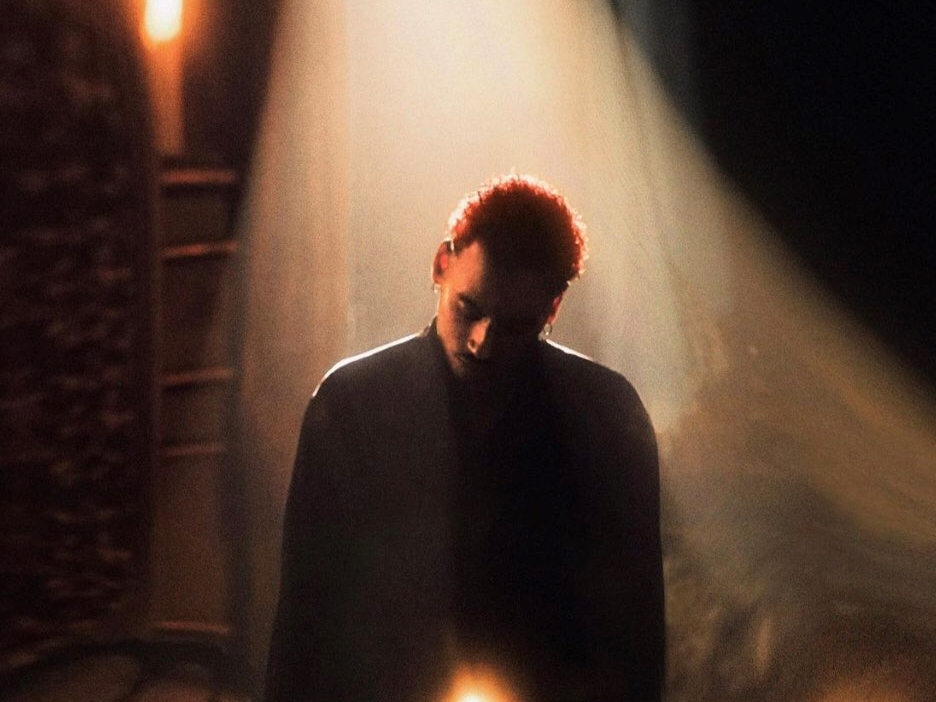
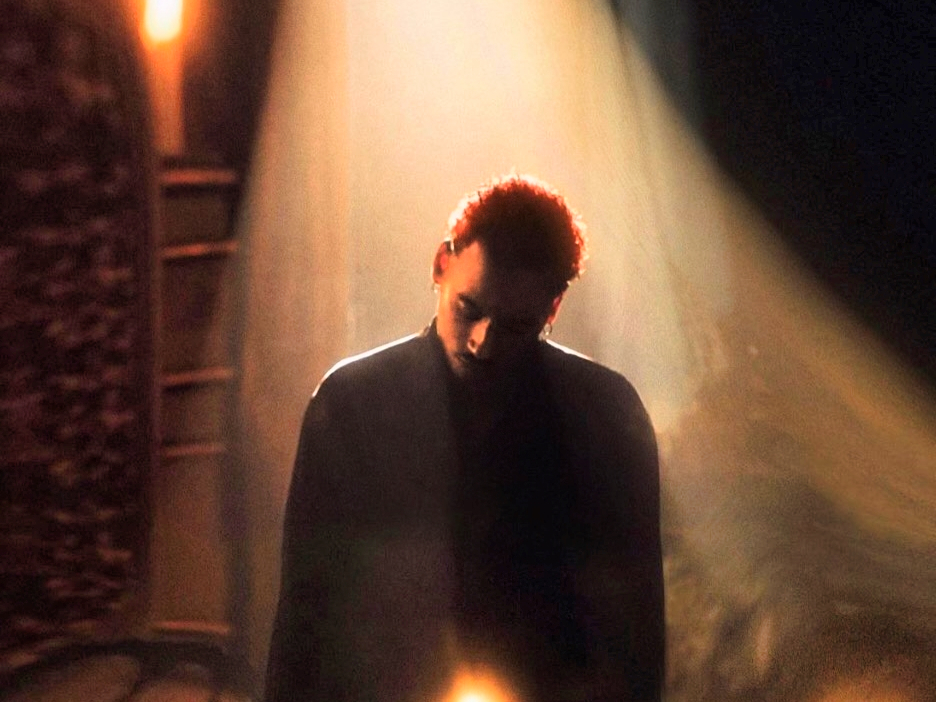
feat(accueil) update img

diff --git a/components/Map.js b/components/Map.js
@@ -62,19 +62,30 @@ export default function Map() {
 
   return (
     <View>
-      <MapView region={region} style={Styles.map} provider={PROVIDER_GOOGLE}>
+      <MapView
+        region={region}
+        style={Styles.map}
+        customMapStyle={MapStyle}
+        provider={PROVIDER_GOOGLE}
+      >
+        <MapView.Marker
+          image={require("../assets/img/icons/current.png")}
+          coordinate={{
+            latitude: region.latitude,
+            longitude: region.longitude,
+          }}
+        />
         {data.map((concert) => {
           let latitude = parseFloat(concert.coordonnees.split(",")[0], 6);
           let longitude = parseFloat(concert.coordonnees.split(",")[1]);
           return (
             <MapView.Marker
+              image={require("../assets/img/icons/marker.png")}
               coordinate={{
                 latitude: latitude,
                 longitude: longitude,
               }}
               key={concert.id}
-              title={concert.festival}
-              description={concert.ville}
               onPress={() => {
                 navigation.push("Concert", { id: concert.id });
               }}
@@ -92,3 +103,229 @@ const Styles = StyleSheet.create({
     height: Dimensions.get("window").height,
   },
 });
+
+const MapStyle = [
+  {
+    elementType: "geometry",
+    stylers: [
+      {
+        color: "#0d0d1c",
+      },
+    ],
+  },
+  {
+    elementType: "labels.icon",
+    stylers: [
+      {
+        visibility: "off",
+      },
+    ],
+  },
+  {
+    elementType: "labels.text.fill",
+    stylers: [
+      {
+        color: "#757575",
+      },
+    ],
+  },
+  {
+    elementType: "labels.text.stroke",
+    stylers: [
+      {
+        color: "#212121",
+      },
+    ],
+  },
+  {
+    featureType: "administrative",
+    elementType: "geometry",
+    stylers: [
+      {
+        color: "#757575",
+      },
+    ],
+  },
+  {
+    featureType: "administrative.country",
+    elementType: "labels.text.fill",
+    stylers: [
+      {
+        color: "#9e9e9e",
+      },
+    ],
+  },
+  {
+    featureType: "administrative.land_parcel",
+    stylers: [
+      {
+        visibility: "off",
+      },
+    ],
+  },
+  {
+    featureType: "administrative.locality",
+    elementType: "labels.text.fill",
+    stylers: [
+      {
+        color: "#bdbdbd",
+      },
+    ],
+  },
+  {
+    featureType: "poi",
+    elementType: "labels.text.fill",
+    stylers: [
+      {
+        color: "#757575",
+      },
+    ],
+  },
+  {
+    featureType: "poi.park",
+    elementType: "geometry",
+    stylers: [
+      {
+        color: "#181818",
+      },
+      {
+        visibility: "off",
+      },
+    ],
+  },
+  {
+    featureType: "poi.park",
+    elementType: "labels.text",
+    stylers: [
+      {
+        visibility: "off",
+      },
+    ],
+  },
+  {
+    featureType: "poi.park",
+    elementType: "labels.text.fill",
+    stylers: [
+      {
+        color: "#616161",
+      },
+    ],
+  },
+  {
+    featureType: "poi.park",
+    elementType: "labels.text.stroke",
+    stylers: [
+      {
+        color: "#1b1b1b",
+      },
+    ],
+  },
+  {
+    featureType: "road",
+    elementType: "geometry",
+    stylers: [
+      {
+        color: "#944a38",
+      },
+    ],
+  },
+  {
+    featureType: "road",
+    elementType: "geometry.fill",
+    stylers: [
+      {
+        color: "#c23d3d",
+      },
+    ],
+  },
+  {
+    featureType: "road",
+    elementType: "labels.text.fill",
+    stylers: [
+      {
+        color: "#8a8a8a",
+      },
+    ],
+  },
+  {
+    featureType: "road.arterial",
+    elementType: "geometry",
+    stylers: [
+      {
+        color: "#973220",
+      },
+    ],
+  },
+  {
+    featureType: "road.highway",
+    elementType: "geometry",
+    stylers: [
+      {
+        color: "#944a38",
+      },
+    ],
+  },
+  {
+    featureType: "road.highway.controlled_access",
+    elementType: "geometry",
+    stylers: [
+      {
+        color: "#7b5656",
+      },
+    ],
+  },
+  {
+    featureType: "road.local",
+    elementType: "labels.text.fill",
+    stylers: [
+      {
+        color: "#616161",
+      },
+    ],
+  },
+  {
+    featureType: "transit",
+    elementType: "geometry",
+    stylers: [
+      {
+        visibility: "off",
+      },
+    ],
+  },
+  {
+    featureType: "transit",
+    elementType: "labels.text.fill",
+    stylers: [
+      {
+        color: "#757575",
+      },
+    ],
+  },
+  {
+    featureType: "transit.station",
+    elementType: "labels.text",
+    stylers: [
+      {
+        visibility: "off",
+      },
+    ],
+  },
+  {
+    featureType: "water",
+    elementType: "geometry",
+    stylers: [
+      {
+        color: "#05050b",
+      },
+    ],
+  },
+  {
+    featureType: "water",
+    elementType: "labels.text.fill",
+    stylers: [
+      {
+        color: "#3d3d3d",
+      },
+    ],
+  },
+];

diff --git a/screens/Accueil.js b/screens/Accueil.js
@@ -5,14 +5,9 @@ import {
   StyleSheet,
   Text,
   View,
-  Button,
-  SafeAreaView,
   Image,
   Animated,
-  FlatList,
-  StatusBar,
   Dimensions,
-  TouchableOpacity,
 } from "react-native";
 import { Colors, BackgroundColor } from "../theme/Colors";
 import TextStyles from "../theme/TextStyles";
@@ -24,11 +19,12 @@ const imageW = width - 64;
 const imageH = height / 3;
 
 const imgData = [
-  "https://intrld.com/wp-content/uploads/2021/07/laylow.png",
-  "https://intrld.com/wp-content/uploads/2021/10/laylow.png",
-  "https://image-cdn.hypb.st/https%3A%2F%2Fhypebeast.com%2Fwp-content%2Fblogs.dir%2F11%2Ffiles%2F2018%2F07%2Flaylow-raw-interview-5-copie.jpg?w=960&cbr=1&q=90&fit=max",
-  "https://numero.twic.pics/images/flexible_grid/100/laylow-3-numero-magazine.jpg",
-  "https://intrld.com/wp-content/uploads/2021/07/laylow-1-1000x600.png",
+  require("../assets/img/laylow/1.jpg"),
+  require("../assets/img/laylow/2.jpg"),
+  require("../assets/img/laylow/3.jpg"),
+  require("../assets/img/laylow/4.jpg"),
+  require("../assets/img/laylow/5.jpg"),
+  require("../assets/img/laylow/6.jpg"),
 ];
 
 export default function Accueil() {
@@ -89,7 +85,7 @@ export default function Accueil() {
                   }}
                 >
                   <Image
-                    source={{ uri: item }}
+                    source={item}
                     style={{
                       width: imageW,
                       maxWidth: 400,

diff --git a/components/BottomSheet.js b/components/BottomSheet.js
@@ -11,16 +11,11 @@ export default function Sheet() {
 
   const snapPoints = useMemo(() => ["22%", "66%"], []);
 
-  const handleSheetChanges = useCallback((index) => {
-    console.log("handleSheetChanges", index);
-  }, []);
-
   return (
     <BottomSheet
       ref={bottomSheetRef}
       index={1}
       snapPoints={snapPoints}
-      onChange={handleSheetChanges}
       handleComponent={() => {
         return (
           <View style={[Styles.container, BackgroundColor(Colors.noir)]}>

diff --git a/containers/MessageList.js b/containers/MessageList.js
@@ -2,7 +2,6 @@ import React, { useState } from "react";
 import { useFocusEffect } from "@react-navigation/native";
 import { View, ActivityIndicator, Text, FlatList } from "react-native";
 import MessageCard from "../components/MessageCard";
-import { Margin } from "../theme/Spacing";
 
 export default function MessageList() {
   const [isLoading, setLoading] = useState(true);

diff --git a/screens/Message.js b/screens/Message.js
@@ -16,7 +16,6 @@ import { Ionicons } from "@expo/vector-icons";
 import { FontAwesome } from "@expo/vector-icons";
 
 function Submit(props, form) {
-  console.log(form);
   const data = new FormData();
   data.append("pseudo", form.pseudo);
   data.append("message", form.message);
